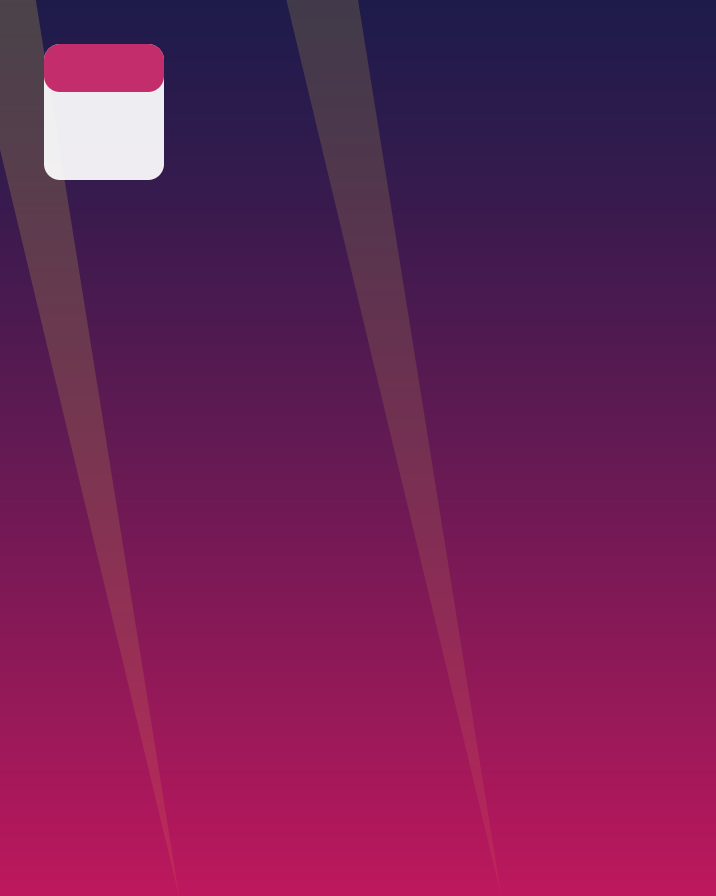
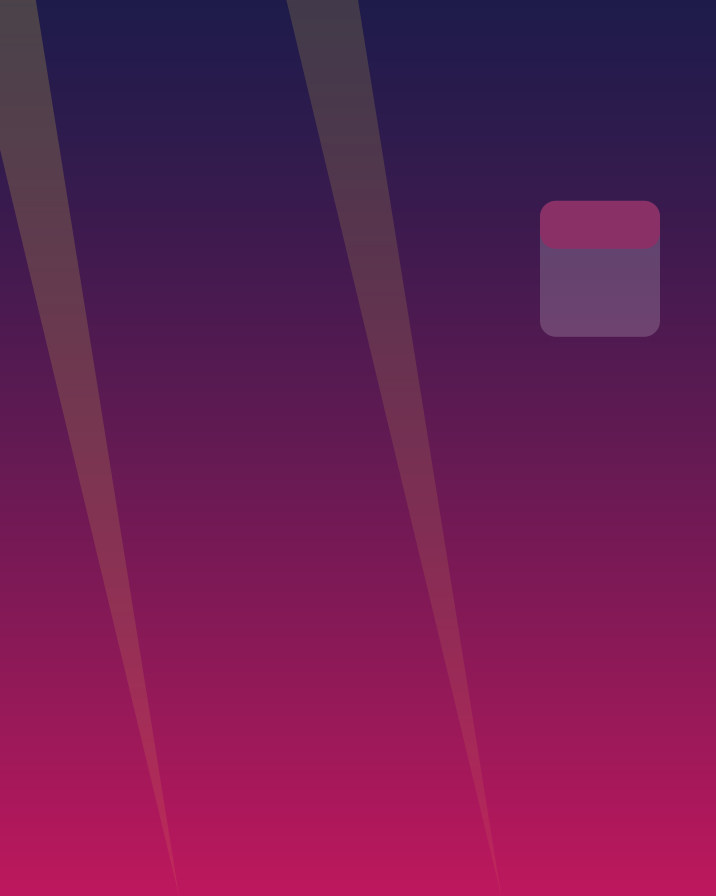
fix(web): one Unvoid control, stage deal ends so void settles and unvoid mints, review lists warnings, quieter preview-only art

Changed region(s): [[0.0615, 0.0312, 0.2458, 0.2188], [0.7374, 0.2188, 0.9218, 0.375]]

diff --git a/src/web/admin/passes/detail/detail-page.tsx b/src/web/admin/passes/detail/detail-page.tsx
@@ -1,5 +1,5 @@
 import { Link, useNavigate } from '@tanstack/react-router';
-import { useState } from 'react';
+import { useEffect, useState } from 'react';
 import type { z } from 'zod';
 import type { PassDetailDto } from '@/shared/contracts/passes.ts';
 import { isApiError } from '../../../lib/errors.ts';
@@ -34,7 +34,8 @@ import '../passes.css';
 type Search = z.infer<typeof passDetailSearchSchema>;
 export type Tab = NonNullable<Search['tab']>;
 
-const devices = (n: number) => `On ${n} ${n === 1 ? 'device' : 'devices'}`;
+const devices = (n: number) =>
+  n === 0 ? 'Not on a device yet' : `On ${n} ${n === 1 ? 'device' : 'devices'}`;
 
 export function PassDetailPage({ passId, search }: { passId: string; search: Search }) {
   const navigate = useNavigate();
@@ -105,7 +106,12 @@ function Loaded({
   setSearch: (patch: Partial<Search>) => void;
 }) {
   const minted = useMintedOnArrival(p.id);
-  const [deal] = useState(() => !minted);
+  // The deal runs once on a hard load; data-enter then goes, so later mints and settles can play.
+  const [deal, setDeal] = useState(() => !minted);
+  useEffect(() => {
+    const t = setTimeout(() => setDeal(false), 900);
+    return () => clearTimeout(t);
+  }, []);
   const created = useCreated(p.id);
   const runner = usePassActionRunner(p, p);
   const actions = usePassActions(p.id);
@@ -138,13 +144,14 @@ function Loaded({
         assetBaseUrl={source.assetBaseUrl}
         assetNames={source.assetNames}
         transitionName={size === 'sheet' ? undefined : `pass-${p.id}`}
-        enter={deal && showing === p.version && size !== 'sheet'}
+        enter={deal && picked === undefined && size !== 'sheet'}
         mint={picked === undefined && !draft ? motion.mint : undefined}
         settle={motion.settle}
         dim={voided}
         unsaved={draft !== null}
         waiting={waiting}
-        swapKey={showing}
+        // Browsing versions crossfades in place; a new current version mints the same card.
+        swapKey={picked === undefined ? 'current' : showing}
         label={picked !== undefined ? `v${showing} of ${p.version}` : `v${p.version}`}
         className={size === 'card' ? 'gap-2' : undefined}
       />
@@ -167,7 +174,7 @@ function Loaded({
         actions={<HeaderActionsView runner={runner} />}
       />
       <div className="mb-6 flex flex-col gap-3 empty:hidden">
-        {voided ? <VoidedCallout pass={p} runner={runner} stamp={motion.stamp} /> : null}
+        {voided ? <VoidedCallout pass={p} stamp={motion.stamp} /> : null}
         {created.unsent && !voided ? (
           <CreatedCallout
             pass={p}

diff --git a/src/web/admin/passes/detail/callouts.tsx b/src/web/admin/passes/detail/callouts.tsx
@@ -8,35 +8,13 @@ import { formatDateTime } from '../../../lib/format.ts';
 import { Button, Callout, IconButton } from '../../../ui/index.ts';
 import type { PassActionRunner } from '../pass-actions.tsx';
 
-/** Voided: when and by whom, and the one way back. The Ban stamps when it just happened. */
-export function VoidedCallout({
-  pass,
-  runner,
-  stamp,
-}: {
-  pass: PassDetailDto;
-  runner: PassActionRunner;
-  stamp: boolean;
-}) {
+/** Voided: when and by whom; Unvoid sits in the header. The Ban stamps when it just happened. */
+export function VoidedCallout({ pass, stamp }: { pass: PassDetailDto; stamp: boolean }) {
   const v = pass.voided;
   const by = v?.actorLabel ?? (v?.actorType === 'connection' ? 'its connection' : null);
   return (
     <div data-stamp={stamp || undefined}>
-      <Callout
-        tone="warning"
-        icon={ACTION_ICON.void}
-        actions={
-          <Button
-            size="sm"
-            variant="outline"
-            iconStart={<ACTION_ICON.unvoid aria-hidden />}
-            loading={runner.pending.unvoid}
-            onClick={() => runner.run('unvoid')}
-          >
-            Unvoid
-          </Button>
-        }
-      >
+      <Callout tone="warning" icon={ACTION_ICON.void}>
         Voided on {formatDateTime(v?.at ?? pass.modifiedAt)}
         {by ? ` by ${by}` : ''}. Holders see it as void.
       </Callout>

diff --git a/templates/_tools/generate-art.ts b/templates/_tools/generate-art.ts
@@ -159,7 +159,7 @@ const storeStrip: Painter = (u, v, w, h, s) => {
   return [...c, 255];
 };
 
-/** Event poster: night gradient, light beams and a date block at the top leading corner. */
+/** Event poster: night gradient, light beams and a faint date block. */
 const eventArt: Painter = (u, v, w, h, s) => {
   let c = mixRgb(NIGHT, MAGENTA, v ** 1.2);
   for (const [x, a] of [
@@ -169,8 +169,11 @@ const eventArt: Painter = (u, v, w, h, s) => {
     const beam = Math.abs(u - x - (v - 1) * 0.25) - 0.05 * (1 - v);
     c = over(c, [253, 224, 71], cover(beam * w) * a * (1 - v * 0.6));
   }
-  c = over(c, [255, 255, 255], cover(box(u * w, v * h, 52 * s, 56 * s, 30 * s, 34 * s, 8 * s)) * 0.92);
-  c = over(c, MAGENTA, cover(box(u * w, v * h, 52 * s, 34 * s, 30 * s, 12 * s, 8 * s) + 0) * 0.9);
+  // The date block sits right of centre, clear of the logo and the header fields.
+  const bx = w - 58 * s;
+  const by = h * 0.3;
+  c = over(c, [255, 255, 255], cover(box(u * w, v * h, bx, by, 30 * s, 34 * s, 8 * s)) * 0.18);
+  c = over(c, MAGENTA, cover(box(u * w, v * h, bx, by - 22 * s, 30 * s, 12 * s, 8 * s)) * 0.45);
   return [...c, 255];
 };
 /** Classic event ticket: the poster colours as a quiet background. */

diff --git a/src/web/admin/passes/list-columns.tsx b/src/web/admin/passes/list-columns.tsx
@@ -131,7 +131,7 @@ export function passColumns(showOrg: boolean): ColumnDef<PassSummaryDto, never>[
           {
             id: 'org',
             header: 'Organization',
-            meta: { hideBelow: 'xl', nowrap: true },
+            meta: { hideBelow: 'xl', nowrap: true, stackHidden: true },
             cell: ({ row }) => <OrgCell pass={row.original} />,
           } satisfies ColumnDef<PassSummaryDto, never>,
         ]
@@ -139,13 +139,13 @@ export function passColumns(showOrg: boolean): ColumnDef<PassSummaryDto, never>[
     {
       id: 'template',
       header: 'Template',
-      meta: { hideBelow: 'lg', nowrap: true },
+      meta: { hideBelow: 'lg', nowrap: true, stackHidden: true },
       cell: ({ row }) => <TemplateCell pass={row.original} />,
     },
     {
       id: 'devices',
       header: 'On device',
-      meta: { hideBelow: 'lg', numeric: true },
+      meta: { hideBelow: 'lg', numeric: true, stackHidden: true },
       cell: ({ row }) =>
         row.original.deviceCount > 0 ? (
           row.original.deviceCount

diff --git a/src/worker/modules/templates/package/analyze.ts b/src/worker/modules/templates/package/analyze.ts
@@ -175,9 +175,15 @@ export async function analyzePackage(
       push(i);
 
   const tools = options.images ?? {};
+  // Preview-only art (web previews) never ships: its size and slot are not the pass's concern.
+  const previewOnly = new Set(manifest?.previewOnlyAssets ?? []);
+  const quiet = (path: string) => (issue: ValidationIssue) => {
+    if (previewOnly.has(path) && issue.severity === 'warning') return;
+    push(issue);
+  };
   const checked: CheckedImage[] = [];
   for (const image of images) {
-    const result = await checkImage(image, tools, push);
+    const result = await checkImage(image, tools, quiet(image.path));
     if (result) checked.push(result);
   }
   const derived = await deriveScales(checked, tools, push);
@@ -194,7 +200,7 @@ export async function analyzePackage(
       kept.push(image);
       continue;
     }
-    push({
+    quiet(image.path)({
       severity: 'warning',
       code: 'SLOT_UNUSED',
       message: `${image.slot} is not used by ${styles.join(', ') || 'any style'}; left out of the pass.`,

diff --git a/src/web/admin/templates/detail-page.tsx b/src/web/admin/templates/detail-page.tsx
@@ -95,8 +95,13 @@ function Loaded({
   const preview = useTemplatePreview(t.id);
   const actions = useTemplateActions(t.id);
   const minted = useMintedOnArrival(`template:${t.id}`);
-  // A duplicate mints once on arrival: the value must change after mount.
+  // A duplicate mints once on arrival (the value must change after mount); a hard load deals once.
   const [mint, setMint] = useState(0);
+  const [deal, setDeal] = useState(true);
+  useEffect(() => {
+    const t = setTimeout(() => setDeal(false), 900);
+    return () => clearTimeout(t);
+  }, []);
   useEffect(() => {
     if (minted) setMint(1);
   }, [minted]);
@@ -114,7 +119,7 @@ function Loaded({
         passJson={preview.data.passJson}
         assetBaseUrl={preview.data.assetBaseUrl}
         assetNames={preview.data.assetNames}
-        enter={size !== 'sheet' && !minted}
+        enter={size !== 'sheet' && !minted && deal}
         mint={mint}
         label={
           t.activeVersion ? (

diff --git a/src/web/admin/passes/new-pass-review.tsx b/src/web/admin/passes/new-pass-review.tsx
@@ -23,6 +23,7 @@ export function ReviewStep({
   steps,
   onEdit,
   brandingMissing,
+  warnings,
   error,
 }: {
   org: string | undefined;
@@ -34,6 +35,8 @@ export function ReviewStep({
   steps: { org?: number; template: number; details: number; holder: number };
   onEdit: (step: number) => void;
   brandingMissing: boolean;
+  /** The preview's other warnings (lint), one line each. */
+  warnings: readonly string[];
   error: ReactNode;
 }) {
   const fields = describeSchema(schema)
@@ -55,6 +58,13 @@ export function ReviewStep({
         <Callout tone="warning" title="No pass branding">
           The pass shows the starter logo and icon.
         </Callout>
+      ) : null}
+      {warnings.length > 0 ? (
+        <Callout
+          tone="warning"
+          title={`${warnings.length} ${warnings.length === 1 ? 'warning' : 'warnings'}`}
+          items={warnings}
+        />
       ) : null}
       <Card>
         <CardBody>

diff --git a/src/web/admin/passes/pass-preview.tsx b/src/web/admin/passes/pass-preview.tsx
@@ -6,6 +6,7 @@ import { assetUrlMap } from '../../pass-card/assets.ts';
 import { PassCardStage } from '../../pass-card/index.tsx';
 import {
   Badge,
+  LoadingRail,
   type PassSide,
   PassSideToggle,
   type PassTarget,
@@ -134,6 +135,7 @@ export function PassPreviewPanel({
         <span className="wl-unsaved" data-on={unsaved || undefined} aria-hidden={!unsaved}>
           <Badge tone="warning">Unsaved</Badge>
         </span>
+        <LoadingRail show={Boolean(waiting)} />
         <div className="wl-version-wait" data-waiting={waiting || undefined}>
           <div key={swapKey} className={swapKey === undefined ? undefined : 'wl-version-in'}>
             <PassPreview {...preview} face={face} target={shown} flippable />

diff --git a/src/web/admin/passes/new-pass-page.tsx b/src/web/admin/passes/new-pass-page.tsx
@@ -309,6 +309,9 @@ export function NewPassPage({
             }}
             onEdit={go}
             brandingMissing={Boolean(preview?.warnings.some((w) => w.code === 'PLATFORM_BRANDING'))}
+            warnings={(preview?.warnings ?? [])
+              .filter((w) => w.severity === 'warning' && w.code !== 'PLATFORM_BRANDING')
+              .map((w) => w.message)}
             error={
               create.isError ? (
                 <Callout tone="danger">
